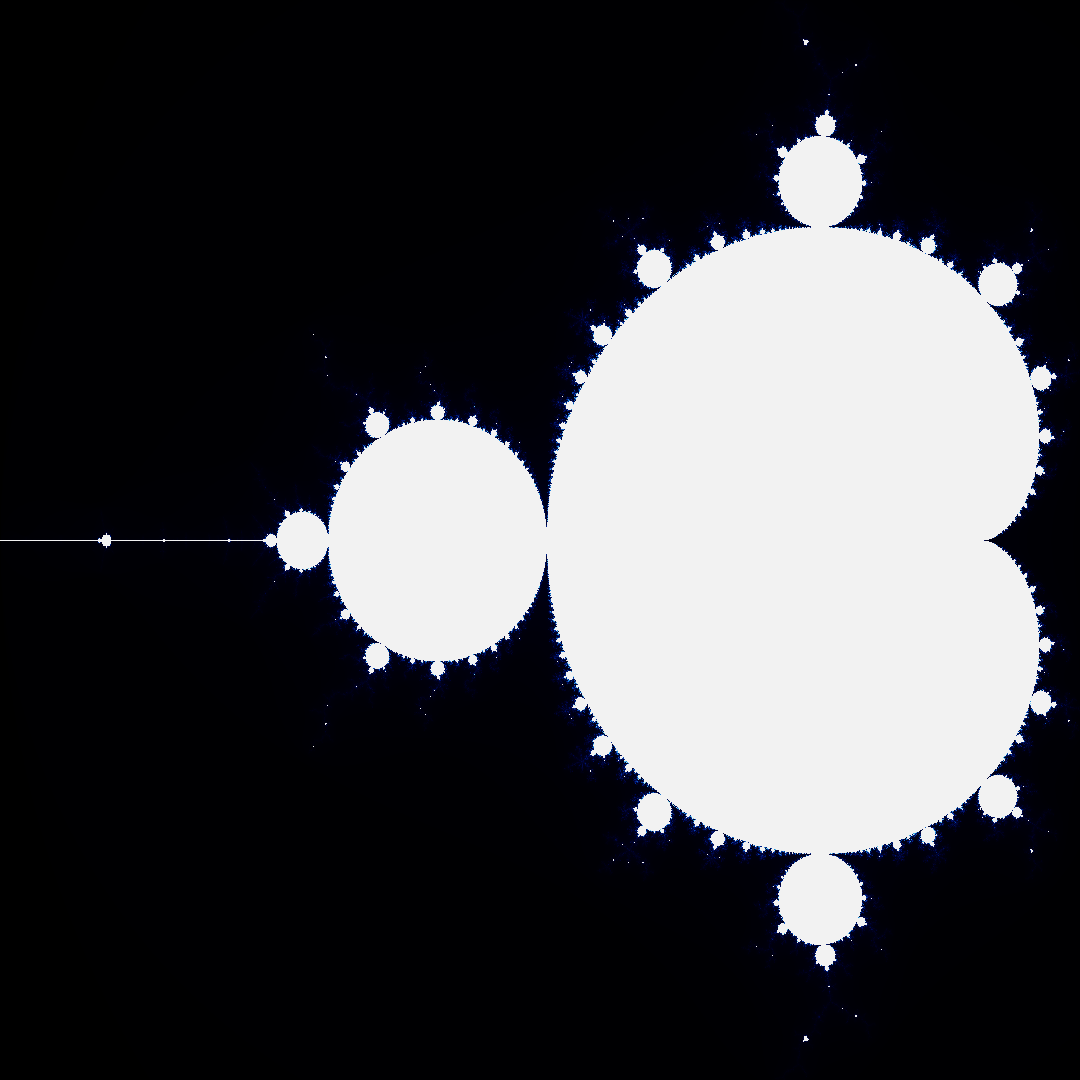
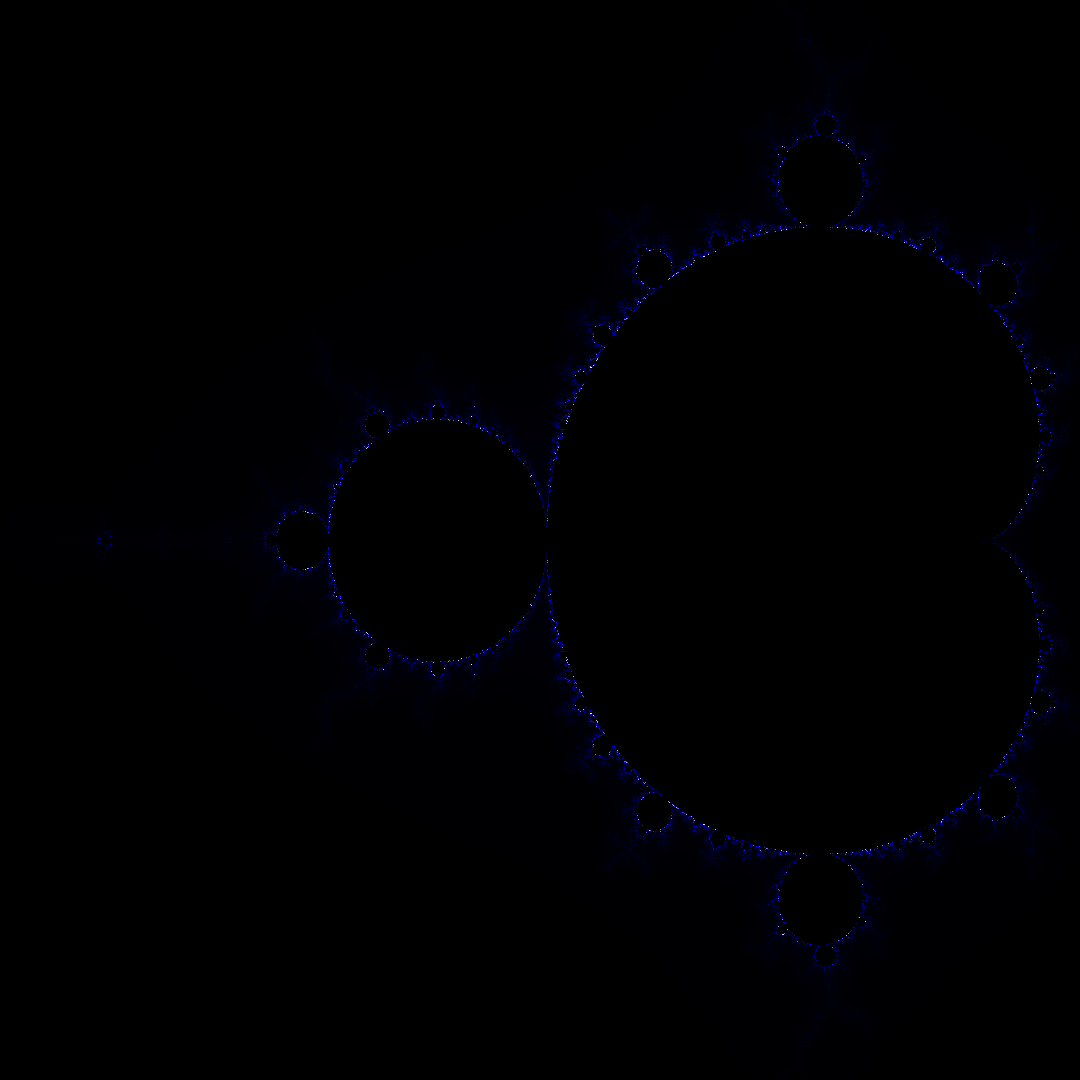
ok

Changed region(s): [[0.2444, 0.0917, 0.9778, 0.8861], [0.0917, 0.4889, 0.1222, 0.5194]]

diff --git a/src/main.rs b/src/main.rs
@@ -39,11 +39,10 @@ fn generate_image_p(width: u32, height: u32, x1: f64, y1: f64, x2: f64, y2: f64,
         .elements([
             LinSrgb::new(0.00, 0.00, 0.00),
             LinSrgb::new(0.00, 0.00, 0.95),
-            LinSrgb::new(0.00, 0.95, 0.95),
             LinSrgb::new(0.95, 0.95, 0.95),
         ])
         .equidistant::<f64>() // knots should be evenly distributed
-        .degree(3)            // cubic curve
+        .degree(1)            // cubic curve
         .domain(-2.0,2.0)     // input domain
         .constant::<4>()      // we need degree+1 space to interpolate
         .build() {
@@ -65,7 +64,13 @@ fn generate_image_p(width: u32, height: u32, x1: f64, y1: f64, x2: f64, y2: f64,
             let y = (i as u32) / height;
             let iterations = calculate_point(x as f64 * scale_x + x1, y as f64 * scale_y + y1, max_iterations);
 
-            let rgb = taken_colors[iterations as usize];
+            
+            let mut rgb = taken_colors[iterations as usize];
+
+            // black saturation option
+            if iterations >= max_iterations {
+                rgb = LinSrgb::new(0.0, 0.0, 0.0);
+            }
 
             let src = [(rgb.red * 255.0) as u8, (rgb.green * 255.0) as u8, (rgb.blue * 255.0) as u8];
             pixel.copy_from_slice(&src);
